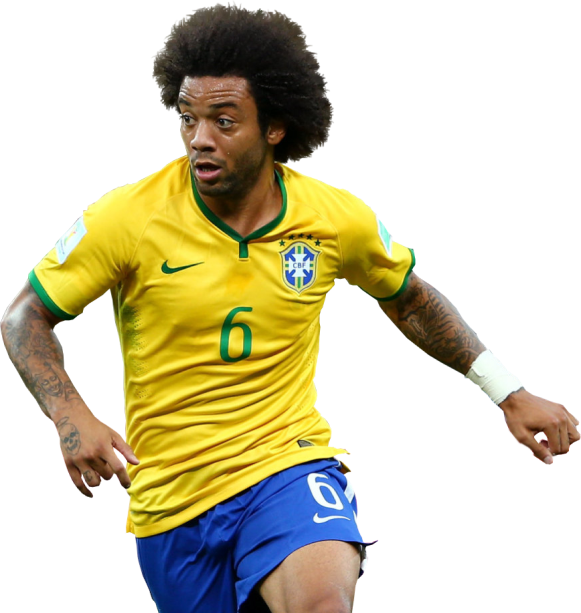
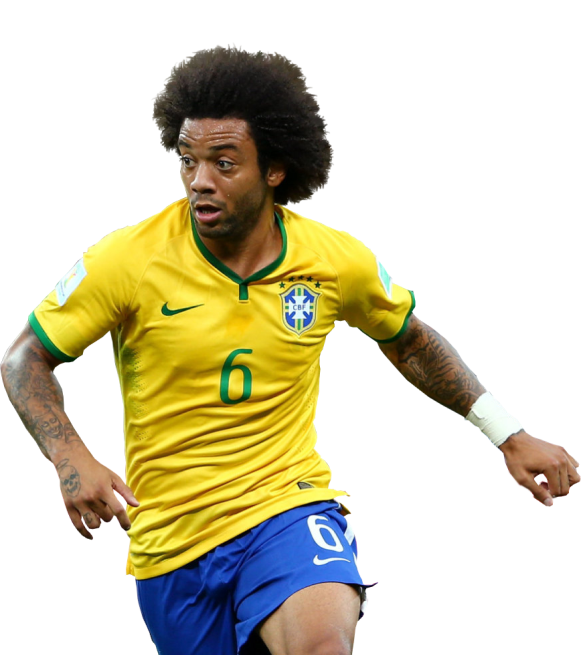
hero-footer responsiveness

diff --git a/style.css b/style.css
@@ -1,8 +1,11 @@
 @import url('https://fonts.googleapis.com/css2?family=Nunito:wght@200;300;400;500;600;700;800;900&family=Roboto+Slab:wght@100;200;300;400;500;600&display=swap');
 
 body{
-    margin: 0px;
+    margin: 0;
     padding: 0px;
+}
+section{
+    margin: 30px 0;
 }
 h1{
     font-family: 'Roboto Slab', serif;
@@ -114,5 +117,36 @@ footer a{
         display:flex;
         gap: 30px;
         justify-content: center;
+    }
+}
+
+@media screen and (min-width: 689px) and (max-width: 1199px) {
+    .hero-section{
+        padding: 0 10px;
+    }
+    .hero-content{
+        width: 100%;
+    }
+    h1{
+        font-size: 40px;
+    }
+    .container , .footer-content{
+        max-width: 97%;
+        margin: auto;
+    }
+    footer .flex-box{
+        flex-wrap: wrap;
+        max-width: 600px;
+        margin: auto;
+    }
+    .hero-content{
+        width: 60%;
+    }
+    .hero-image img{
+        width: 100%;
+        max-width: 400px;
+    }
+    .footer-content{
+
     }
 }
